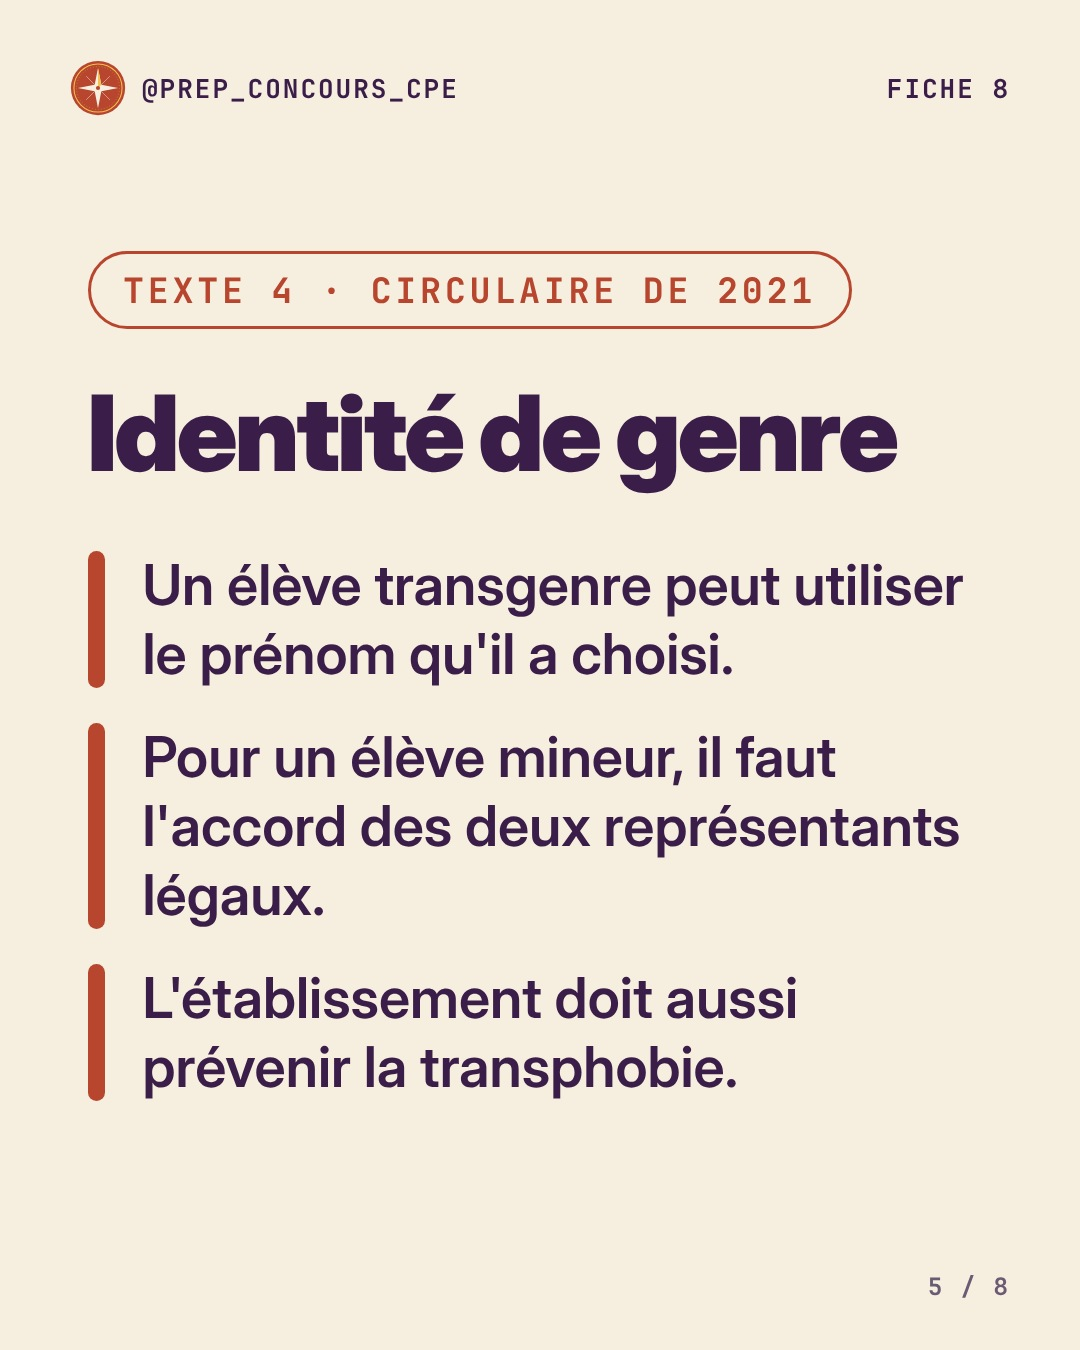
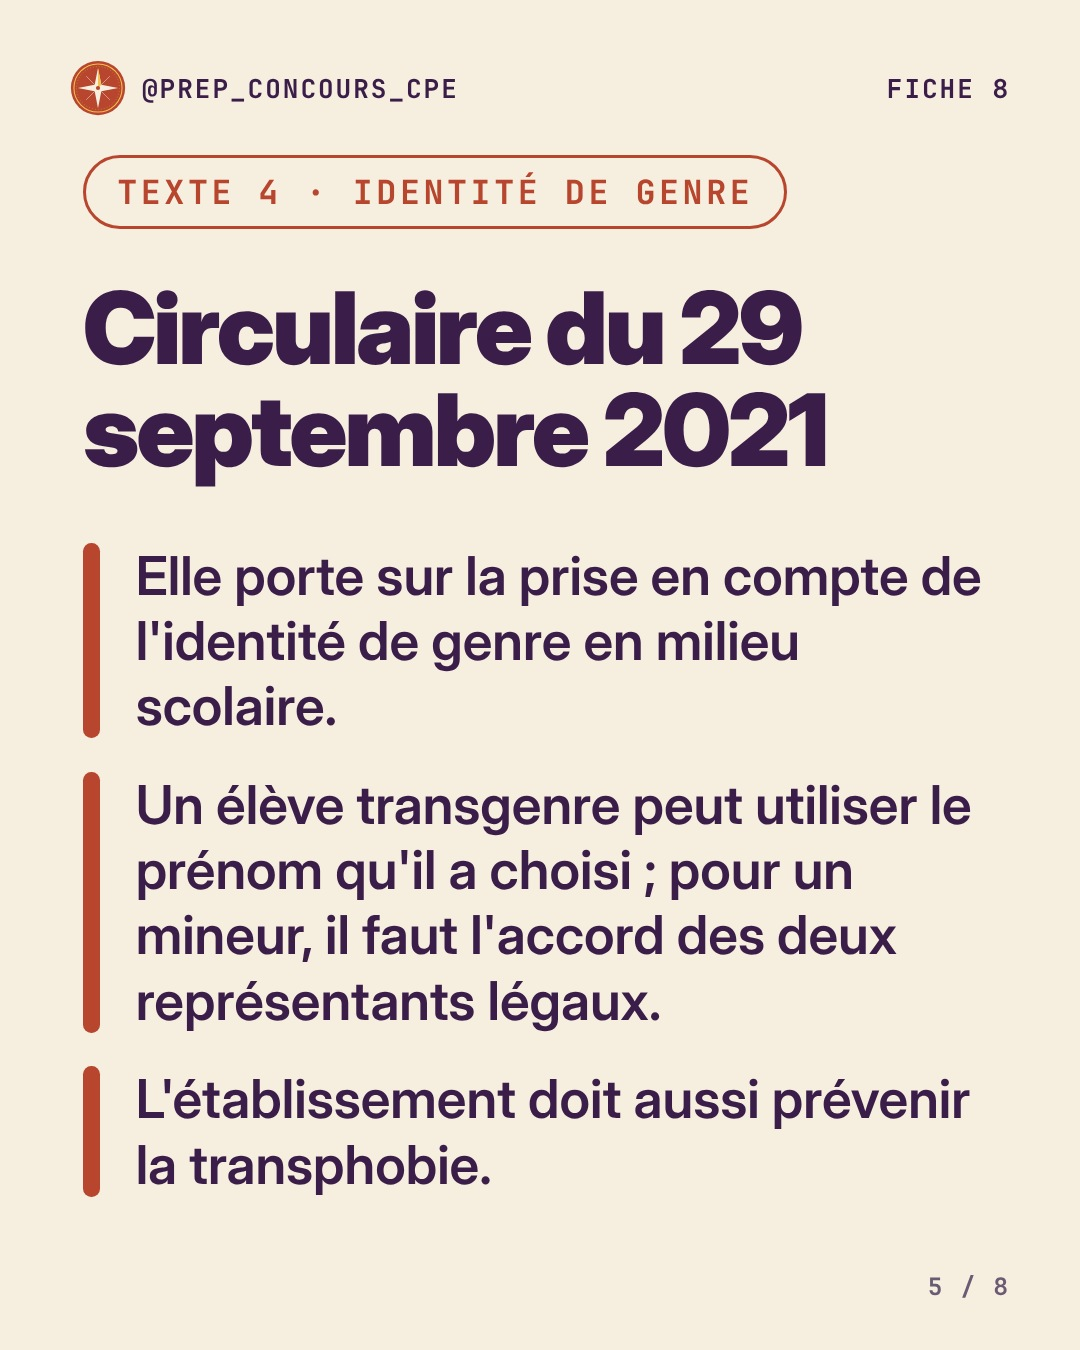
Carrousel du 14 nov : image 5 centrée sur la circulaire du 29 septembre 2021
Claude-Session: https://claude.ai/code/session_01FvtqKV6WczsFieuhhj4vMF

diff --git a/posts/auto/2026-11-14/LEGENDE.md b/posts/auto/2026-11-14/LEGENDE.md
@@ -1,3 +1,3 @@
-Les 4 textes à connaître sur les discriminations. Code pénal, art. 225-1 et 225-2 : la définition et les critères interdits. Loi du 29 juillet 1881 : injures et provocations à la haine, des délits. Code de l'éducation, art. L. 121-1 : mixité et égalité entre les femmes et les hommes, avec un référent égalité dans chaque établissement. Circulaire du 29 septembre 2021 : identité de genre, prénom choisi avec l'accord des deux représentants légaux. Le rôle du CPE : veiller à l'égalité de traitement, faire respecter le règlement intérieur, protéger la victime et signaler les faits pénaux. Candidats et candidates, enregistre ce post pour tes révisions. Tout est dans la fiche 8 de Prep'CPE, avec le quiz. Lequel de ces textes te manquait ? Dis-le en commentaire. Lien en bio.
+Les 4 textes à connaître sur les discriminations. Code pénal, art. 225-1 et 225-2 : la définition et les critères interdits. Loi du 29 juillet 1881 : injures et provocations à la haine, des délits. Code de l'éducation, art. L. 121-1 : mixité et égalité entre les femmes et les hommes, avec un référent égalité dans chaque établissement. Circulaire du 29 septembre 2021 sur l'identité de genre en milieu scolaire : prénom choisi avec l'accord des deux représentants légaux. Le rôle du CPE : veiller à l'égalité de traitement, faire respecter le règlement intérieur, protéger la victime et signaler les faits pénaux. Candidats et candidates, enregistre ce post pour tes révisions. Tout est dans la fiche 8 de Prep'CPE, avec le quiz. Lequel de ces textes te manquait ? Dis-le en commentaire. Lien en bio.
 
 #concourscpe #cpe2027 #prepaconcours #conseillerprincipaldeducation #viescolaire #discriminations #textes
